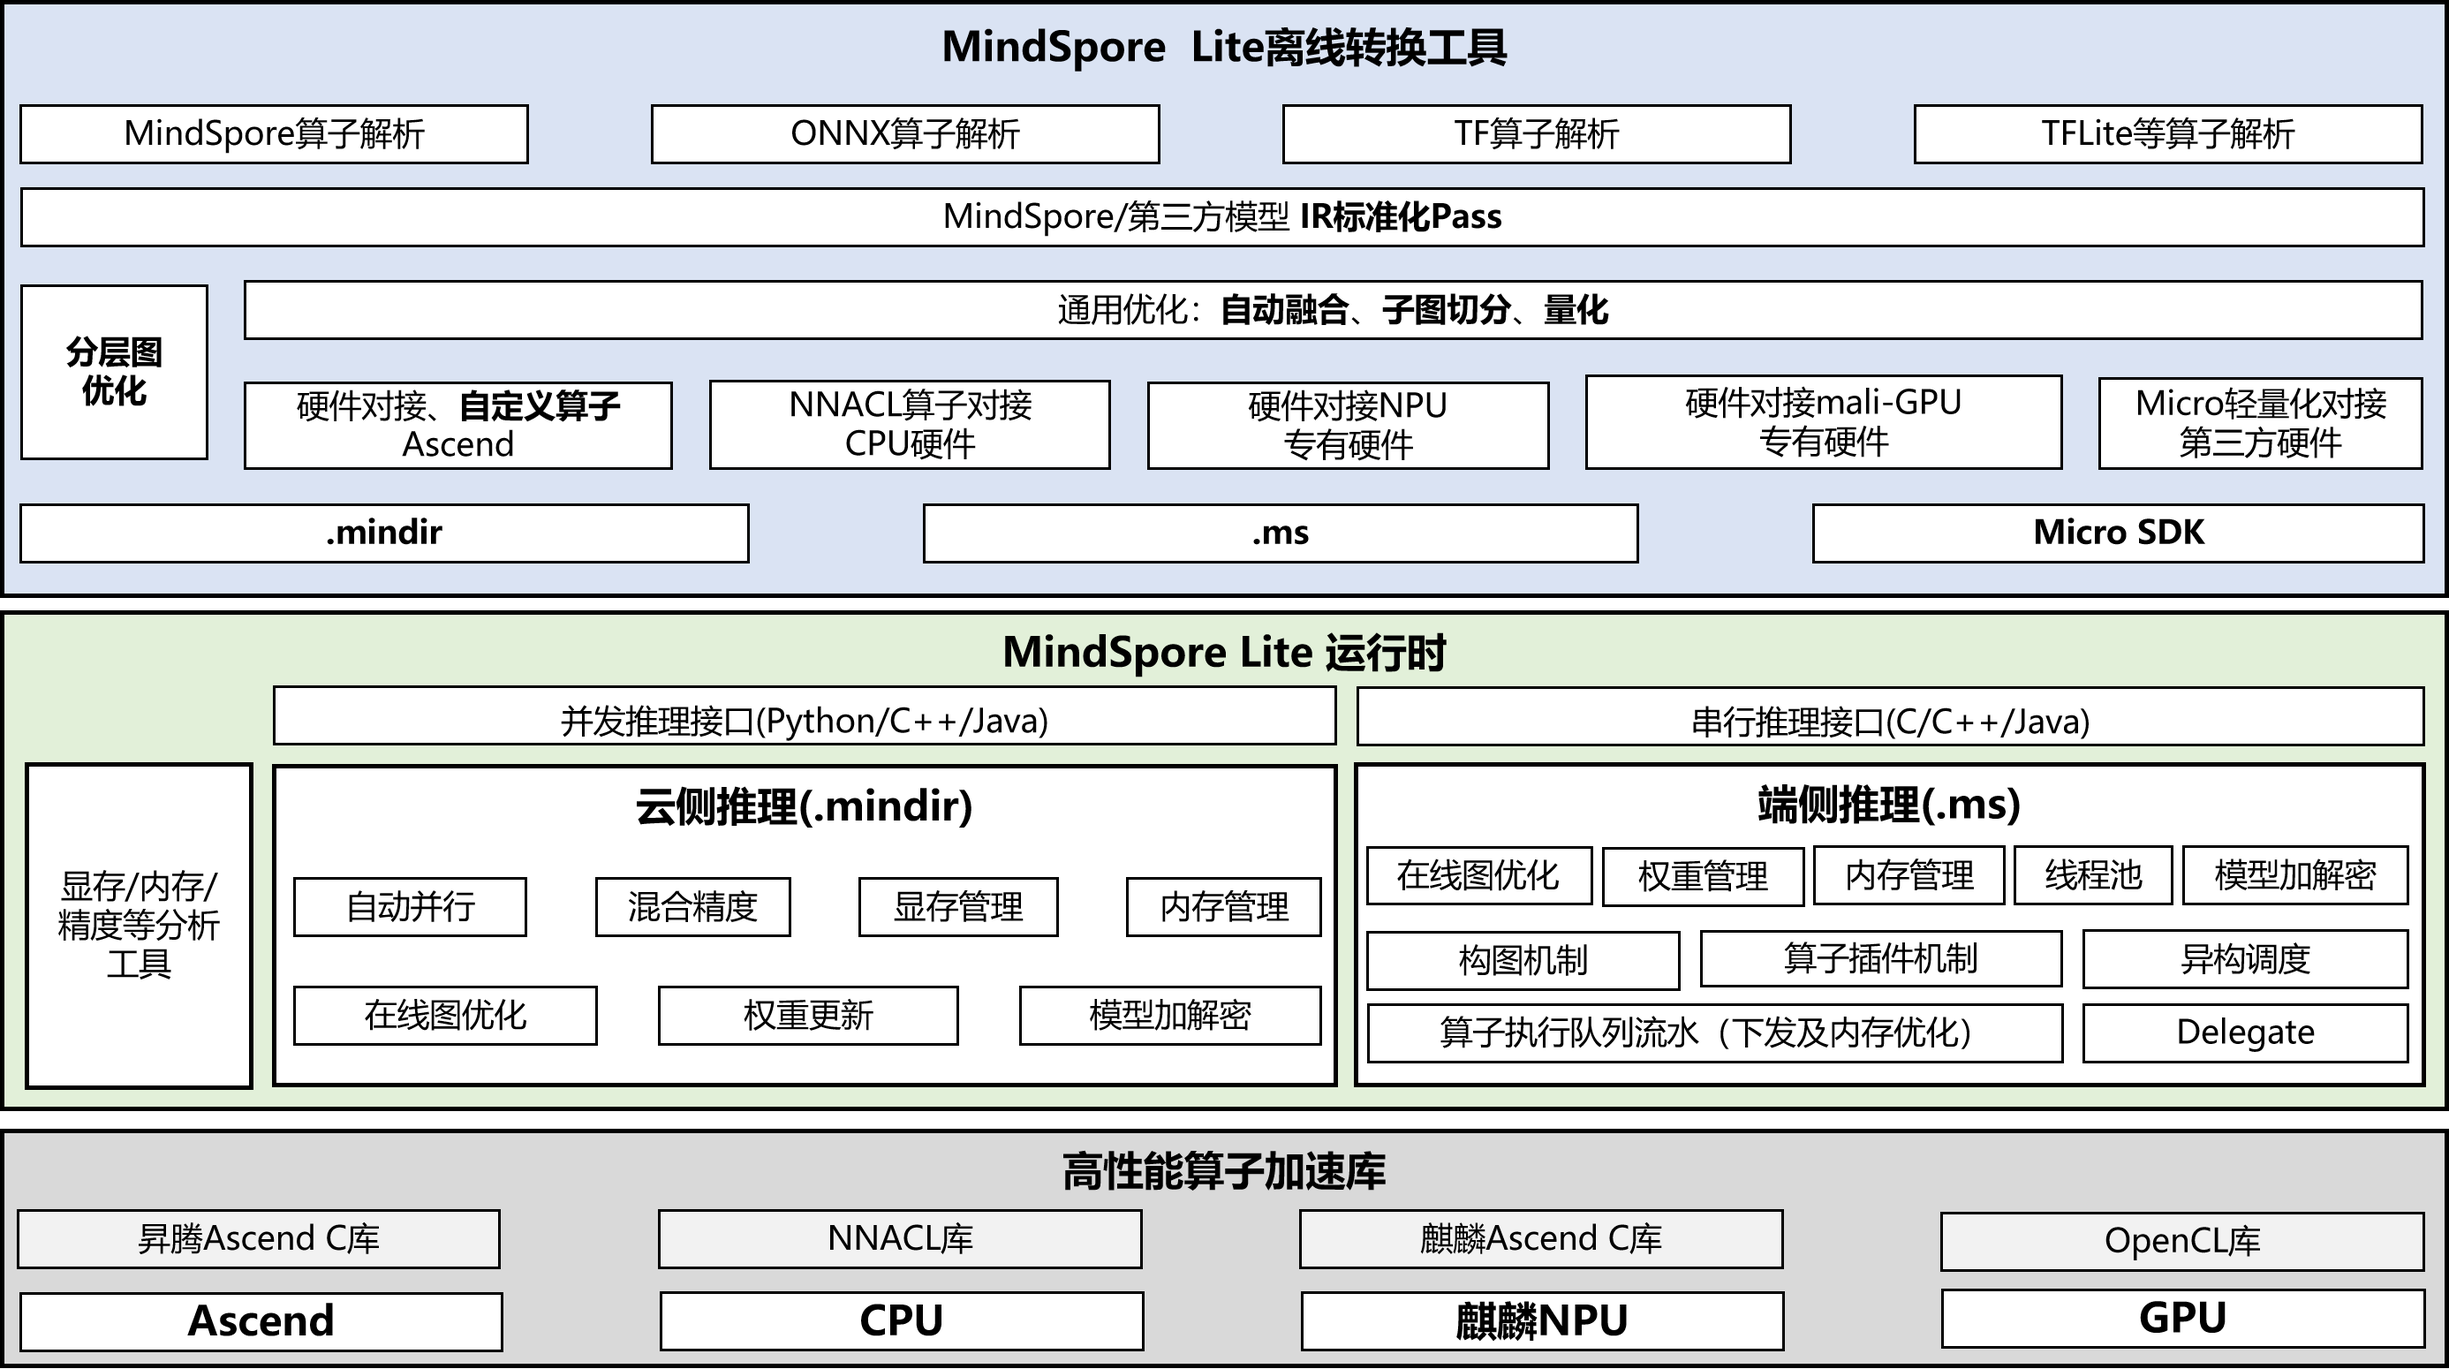
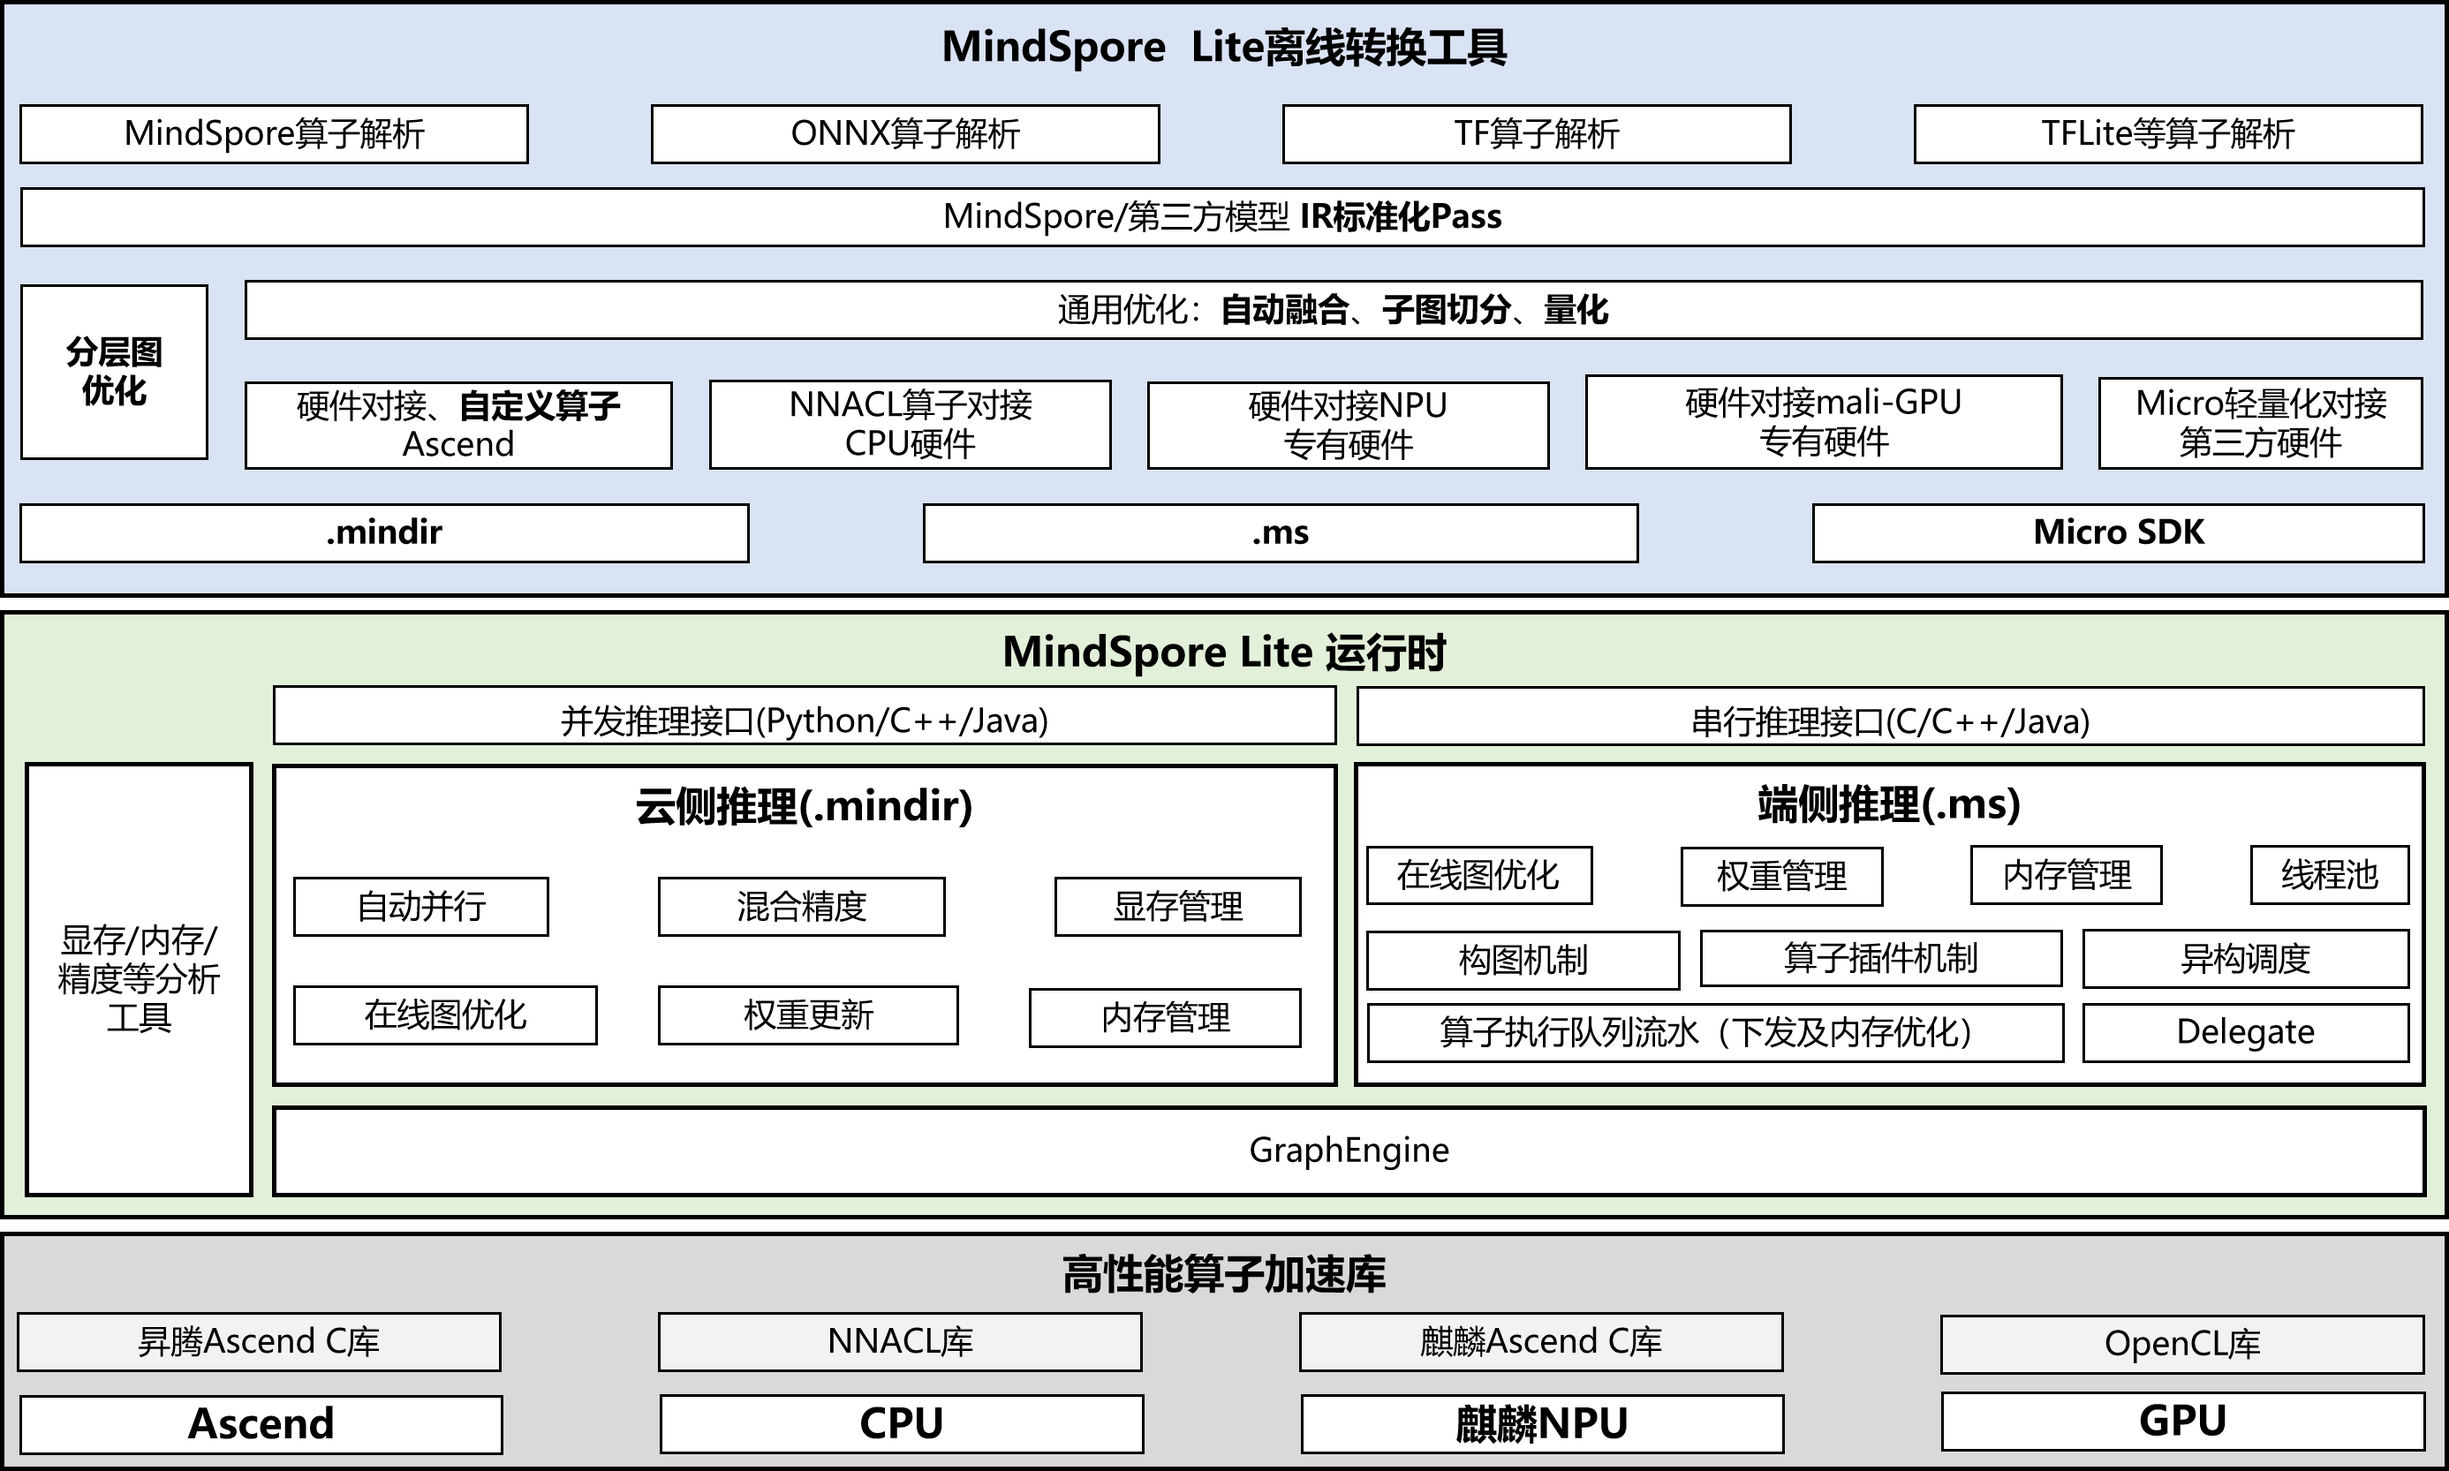
add graphengine in readme

diff --git a/README.md b/README.md
@@ -153,3 +153,5 @@ If you wish to further learn and use MindSpore Lite, please refer to the followi
 - [Mindyolo](https://atomgit.com/mindspore/mindyolo)
 
 - [OpenHarmony](https://atomgit.com/openharmony/third_party_mindspore)
+
+- [GraphEngine](https://gitcode.com/cann/ge)

diff --git a/README_CN.md b/README_CN.md
@@ -154,3 +154,5 @@ MindSpore Lite针对AIGC、语音类算法以及CV类模型推理，实现推理
 - [Mindyolo](https://atomgit.com/mindspore/mindyolo)
 
 - [OpenHarmony](https://atomgit.com/openharmony/third_party_mindspore)
+
+- [GraphEngine](https://gitcode.com/cann/ge)
